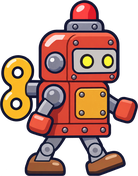
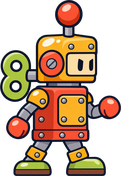
熱量とスコアの仕組み、処理落ち・経験値・ボムの修正、敵9種の画像
熱量とスコア
- 熱量(×1.0〜×6.0): 素早く倒すと上がり、被弾・囲まれる・時間で下がる
- 熱量に応じて敵の出現が速く、新しい敵が硬くなる。スコアの倍率にもなる
- スコア: 撃破(強さ×熱量)、ボス撃破、クリア・残りHPのボーナス。終了画面に表示

修正
- 処理落ち: 敵120体・破片300個・倒れる動き60体の上限、同じ効果音の間引き、敵画像を表示サイズで用意
- 経験値: 熱量で増えた分の敵からは経験値を出さない
- ビルド完成後のレベルアップは選択画面なしで自動ボーナス(スコア+回復)、ボム補充カードを廃止
- ボム: 倒した敵で熱量が上がらない、使うと熱量が下がる(経験値はこれまでどおり)

敵の画像
- 9種類すべてを画像に(ゼンマイ歩行ロボは新しい絵に差し替え)
- 小型飛行船は下の砲口から撃つ
- 設定は config.js の HEAT / SCORE / PERF / LEVEL_BONUS / ENEMY_ART

Claude-Session: https://claude.ai/code/session_01UuNR3d7QmSkxw8QbAA137X

diff --git a/game.js b/game.js
@@ -57,7 +57,7 @@ const TART = { ground: loadImg(TURRET_ART.ground.src, TURRET_ART.ground.width), 
 
 // 敵の画像: 段階ごとに色を重ねた版と、その白フチ・影・白い点滅用を読み込み時に作っておく
 function tinted(im, color, amount) {
-  const c = document.createElement("canvas"); c.width = im.naturalWidth; c.height = im.naturalHeight;
+  const c = document.createElement("canvas"); c.width = im.naturalWidth || im.width; c.height = im.naturalHeight || im.height;
   const g = c.getContext("2d"); g.drawImage(im, 0, 0);
   g.globalCompositeOperation = "source-atop"; g.globalAlpha = amount; g.fillStyle = color; g.fillRect(0, 0, c.width, c.height);
   return c;
@@ -66,9 +66,13 @@ function loadEnemyImg(a) {
   const im = new Image();
   im.onload = () => {
     im.dispW = a.height * im.naturalWidth / im.naturalHeight;   // 画面上の幅
-    const b = Math.ceil(PAPER.border * im.naturalHeight / a.height);
+    // 毎回大きな画像を縮めて描くと重いので、表示サイズ(×spriteQuality)に縮めた画像を作っておく
+    const q = PERF.spriteQuality, small = document.createElement("canvas");
+    small.width = Math.round(im.dispW * q * 1.3); small.height = Math.round(a.height * q * 1.3);   // 上位種は最大1.3倍に大きくなる
+    const sg = small.getContext("2d"); sg.imageSmoothingQuality = "high"; sg.drawImage(im, 0, 0, small.width, small.height);
+    const b = Math.ceil(PAPER.border * small.height / a.height);
     im.tiers = TIERS.map((T, i) => {
-      const base = i ? tinted(im, T.tint, ENEMY_TINT) : im;
+      const base = i ? tinted(small, T.tint, ENEMY_TINT) : small;
       const paper = bakeBorder(base, b, PAPER.borderColor);
       return { plain: base, paper, shadow: silhouette(paper, "#000"), white: silhouette(base, "#fff"), paperWhite: silhouette(paper, "#fff") };
     });
@@ -178,16 +182,19 @@ const sound = {
     o.connect(g).connect(this.ac.destination); o.start(t); o.stop(t + dur);
   },
 };
+// 同じ効果音を短い間隔で何度も鳴らすと重くなるので、間を空ける
+const lastSound = {};
+function throttled(name, f) { return () => { const now = performance.now(); if (now - (lastSound[name] || 0) < PERF.soundGapMs) return; lastSound[name] = now; f(); }; }
 const sfx = {
   shot: () => sound.play(880, 0.05, "square", 0.012, -400),
-  hit: () => sound.play(220, 0.06, "triangle", 0.03, -100),
-  kill: () => sound.play(160, 0.15, "sawtooth", 0.035, -120),
+  hit: throttled("hit", () => sound.play(220, 0.06, "triangle", 0.03, -100)),
+  kill: throttled("kill", () => sound.play(160, 0.15, "sawtooth", 0.035, -120)),
   hurt: () => sound.play(90, 0.3, "sawtooth", 0.08, -50),
-  gem: () => sound.play(1200, 0.06, "sine", 0.025, 300),
+  gem: throttled("gem", () => sound.play(1200, 0.06, "sine", 0.025, 300)),
   lvl: () => { sound.play(523, 0.12, "square", 0.05); setTimeout(() => sound.play(784, 0.18, "square", 0.05), 110); },
   item: () => sound.play(660, 0.25, "sine", 0.06, 600),
   bomb: () => sound.play(60, 0.6, "sawtooth", 0.12, -20),
-  boom: () => sound.play(100, 0.2, "sawtooth", 0.04, -60),
+  boom: throttled("boom", () => sound.play(100, 0.2, "sawtooth", 0.04, -60)),
   zap: () => sound.play(1500, 0.08, "square", 0.025, -1200),
   nova: () => sound.play(200, 0.35, "sine", 0.07, -150),
 };
@@ -208,6 +215,7 @@ function startGame(withTutorial) {
     cards: {}, wcool: {}, evolved: {}, bombs: BOMB.start,
     fireCool: 0, shield: 0, invuln: 0, hurtFlash: 0, aimAngle: -Math.PI / 2,
     tierShown: 0, bossDone: {}, finalSpawned: false, finalKilled: false, banner: null,
+    score: 0, heat: HEAT.min, maxHeat: HEAT.min, clearBonus: null,
   };
   recalc();
   S.hp = S.maxHp;
@@ -257,10 +265,10 @@ function spawnEnemy(type, forceSide, forceTier) {
   const d = ENEMY[type];
   const tier = forceTier != null ? forceTier : rollTier();
   const T = TIERS[tier];
-  const hp = d.hp * T.hp;
+  const hp = d.hp * T.hp * (S && !tut ? 1 + (S.heat - HEAT.min) * HEAT.hpBoost : 1);   // 熱量が高いと少し硬くなる
   const e = { type, d, tier, T, hp, maxHp: hp, r: d.r * (1 + tier * 0.1), speed: d.speed * (0.9 + Math.random() * 0.2),
               color: tier ? mixColor(d.color, T.tint, 0.55) : d.color,
-              flash: 0, t: Math.random() * 10, cool: 2 + Math.random(), spdMul: 1 };
+              flash: 0, t: Math.random() * 10, age: 0, cool: 2 + Math.random(), spdMul: 1 };
   const side = forceSide || (Math.random() < 0.5 ? "L" : "R");
   if (d.kind === "ground") {
     e.x = side === "L" ? -e.r : W + e.r; e.y = GY - e.r;
@@ -309,6 +317,7 @@ function fireBullet(x, y, ang, o) {
 }
 
 function burst(x, y, color, n = 10, sp = 160) {
+  n = Math.min(n, PERF.maxParticles - particles.length);   // 上限を超えない
   for (let i = 0; i < n; i++) {
     const a = Math.random() * Math.PI * 2, v = sp * (0.3 + Math.random());
     particles.push({ x, y, vx: Math.cos(a) * v, vy: Math.sin(a) * v, life: 0.5 + Math.random() * 0.3, color });
@@ -340,7 +349,13 @@ function update(dt) {
   if (S.banner) { S.banner.life -= dt; if (S.banner.life <= 0) S.banner = null; }
 
   // --- クリア判定 ---
-  if (S.time >= FINAL.clearAt) { state = "clear"; sfx.lvl(); return; }
+  if (S.time >= FINAL.clearAt) {
+    const hpB = Math.ceil(Math.max(0, S.hp)) * SCORE.hpBonus;
+    S.clearBonus = { clear: SCORE.clearBonus, hp: hpB };
+    S.score += SCORE.clearBonus + hpB;
+    state = "clear"; sfx.lvl(); return;
+  }
+  if (!tut) updateHeat(dt);
   if (tut) updateTutorial(dt);
 
   // --- 段階の切り替わり(告知 + 巨兵) ---
@@ -358,10 +373,10 @@ function update(dt) {
   // --- 敵の出現 ---
   if (!tut) spawnTimer -= dt;
   if (spawnTimer <= 0) {
-    const interval = Math.max(SPAWN.minInterval, SPAWN.startInterval - S.time * SPAWN.rampPerSec);
+    const interval = Math.max(SPAWN.minInterval, SPAWN.startInterval - S.time * SPAWN.rampPerSec) / heatSpawnMul();
     spawnTimer = interval * (0.7 + Math.random() * 0.6);
     const n = 1 + Math.floor(S.time / SPAWN.batchEvery);
-    for (let i = 0; i < n; i++) spawnEnemy(pickEnemyType());
+    for (let i = 0; i < n && enemies.length < PERF.maxEnemies; i++) spawnEnemy(pickEnemyType());
   }
 
   // --- エイム ---
@@ -613,7 +628,7 @@ function updateEnemies(dt) {
   const slowR = slowL ? WEAPON.slow.radius(slowL) : 0, slowF = slowL ? WEAPON.slow.factor(slowL) : 0;
   for (const e of enemies) {
     if (e.hp <= 0) continue;
-    e.t += dt; e.flash = Math.max(0, e.flash - dt);
+    e.t += dt; e.age += dt; e.flash = Math.max(0, e.flash - dt);
     e.spdMul = slowL && dist(e, P) < slowR + e.r ? 1 - slowF : 1;
     const sp = e.speed * e.spdMul;
     const k = e.d.kind;
@@ -636,13 +651,24 @@ function updateEnemies(dt) {
       e.cool -= dt;
       if (e.cool <= 0 && e.y >= e.hoverY - 1) {
         e.cool = 3.2;
-        const a = Math.atan2(P.y - e.y, P.x - e.x);
-        ebullets.push({ x: e.x, y: e.y, vx: Math.cos(a) * 130, vy: Math.sin(a) * 130, r: 7, life: 8, dmg: Math.round(10 * e.T.dmg) });
+        const my = e.y + (e.art ? e.artH * 0.42 : 0);   // 絵のある砲撃手は下の砲口から撃つ
+        const a = Math.atan2(P.y - my, P.x - e.x);
+        ebullets.push({ x: e.x, y: my, vx: Math.cos(a) * 130, vy: Math.sin(a) * 130, r: 7, life: 8, dmg: Math.round(10 * e.T.dmg) });
       }
     }
   }
   enemies = enemies.filter(e => e.hp > 0);
 }
+
+// 熱量: 時間で少しずつ下がり、囲まれているとさらに下がる
+function updateHeat(dt) {
+  let near = 0;
+  for (const e of enemies) if (e.hp > 0 && dist(e, P) < HEAT.crowdRadius) near++;
+  let drop = HEAT.decayPerSec;
+  if (near >= HEAT.crowdCount) drop += HEAT.crowdDropPerSec;
+  S.heat = Math.max(HEAT.min, S.heat - drop * dt);
+}
+function heatSpawnMul() { return 1 + (S.heat - HEAT.min) * HEAT.spawnBoost; }
 
 function damageEnemy(e, dmg) {
   if (e.hp <= 0) return;
@@ -653,13 +679,22 @@ function damageEnemy(e, dmg) {
 
 function killEnemy(e) {
   S.kills++;
+  if (!tut) {   // スコア(熱量が倍率)と熱量の上昇
+    let pts = e.d.xp * e.T.xp * SCORE.perXp;
+    if (e.type === "boss") pts += SCORE.bossBonus; else if (e.type === "titan") pts += SCORE.titanBonus;
+    pts = Math.round(pts * S.heat / 10) * 10;
+    S.score += pts;
+    if (e.d.boss) floatText(e.x, e.y - e.r - 20, `+${pts.toLocaleString()}`, "#f0e442");
+    if (!bombing) S.heat = Math.min(HEAT.max, S.heat + HEAT.gainPerKill * (e.age <= HEAT.fastKillTime ? HEAT.fastBonus : 1));   // ボムで倒した分は上げない
+    S.maxHeat = Math.max(S.maxHeat, S.heat);
+  }
   if (e.type === "titan") { S.finalKilled = true; banner("大巨兵 撃破!", "#ffd54f"); }
   sfx.kill();
   burst(e.x, e.y, e.color, e.d.boss ? 40 : 12);
-  if (PAPER.enabled) { e.flash = 0; corpses.push({ e, t: 0, dir: e.x < P.x ? -1 : 1 }); }   // 紙風: 倒れる動き
+  if (PAPER.enabled && corpses.length < PERF.maxCorpses) { e.flash = 0; corpses.push({ e, t: 0, dir: e.x < P.x ? -1 : 1 }); }   // 紙風: 倒れる動き
   const n = e.d.boss ? 10 : 1;
   for (let i = 0; i < n; i++)
-    gems.push({ x: e.x, y: e.y, vx: (Math.random() - 0.5) * 160, vy: -120 - Math.random() * 120, t: 0, v: e.d.xp * e.T.xp / n });
+    gems.push({ x: e.x, y: e.y, vx: (Math.random() - 0.5) * 160, vy: -120 - Math.random() * 120, t: 0, v: e.d.xp * e.T.xp / n / (tut ? 1 : heatSpawnMul()) });   // 熱量で増えた敵の分は経験値にしない
   // アイテムドロップ
   if (Math.random() < (e.d.boss ? 1 : 0.05)) {
     const keys = Object.keys(ITEMS);
@@ -691,6 +726,7 @@ function hurtPlayer(raw) {
   floatText(P.x, P.y - 40, "-" + dmg, "#ff8a80");
   // 無敵時間を付け、周りの敵を押し返す(ダメージなし)
   S.invuln = HURT.invuln;
+  if (!tut) S.heat = Math.max(HEAT.min, S.heat - HEAT.hurtDrop);   // 被弾で熱量が下がる
   for (const e of enemies) if (e.hp > 0 && dist(e, P) < HURT.pushRadius + e.r) knockback(e, P.x, P.y, HURT.push);
   fx.push({ type: "ring", r: HURT.pushRadius, life: 0.3, max: 0.3, color: "255,138,128" });
   return "hit";
@@ -711,9 +747,13 @@ function useBomb() {
   sfx.bomb(); shake = 14;
   fx.push({ type: "flash", life: 0.25, max: 0.25 });
   const dmg = BOMB.dmgPerTierHp * TIERS[currentTier()].hp;
+  bombing = true;
   for (const e of enemies) damageEnemy(e, dmg);
+  bombing = false;
+  if (!tut) S.heat = Math.max(HEAT.min, S.heat - HEAT.bombDrop);
   ebullets = [];
 }
+let bombing = false;   // ボムで倒している最中か
 
 function collectItem(it) {
   it.dead = true; sfx.item();
@@ -762,7 +802,14 @@ function openLevelUp() {
   const pick = EVOLUTIONS.filter(v => !S.evolved[v.from] && lv(v.from) >= CARD_RULES.maxLevel && lv(v.with) >= CARD_RULES.maxLevel)
     .slice(0, 3).map(v => ({ id: "evo_" + v.id, type: "evolve", name: v.name, evo: v, desc: () => v.desc }));
   while (pick.length < 3 && avail.length) pick.push(rand(avail));
-  const fillers = [CARD.heal, CARD.bombup];
+  // ビルドが完成して取れるカードが無いときは、選択画面を出さずにボーナスを受け取る
+  if (!pick.length && !tut) {
+    const pts = Math.round(LEVEL_BONUS.score * S.heat / 10) * 10;
+    S.score += pts; S.hp = Math.min(S.maxHp, S.hp + LEVEL_BONUS.heal);
+    floatText(P.x, P.y - 60, `LEVEL UP  +${pts.toLocaleString()}`, "#69f0ae"); sfx.gem();
+    return;
+  }
+  const fillers = [CARD.heal];   // 足りない枠は回復だけで埋める(ボム補充は出さない)
   while (pick.length < 3 && fillers.length) pick.push(rand(fillers));
   // HPが減っていたら回復を候補に混ぜる
   if (S.hp < S.maxHp * 0.5 && !pick.includes(CARD.heal)) {
@@ -884,8 +931,8 @@ function draw() {
   if (state !== "title") drawHUD();
   if (state === "levelup") drawLevelUp();
   if (state === "pause") drawCenter("PAUSE", "P / Esc で再開");
-  if (state === "over") drawCenter("GAME OVER", `生存 ${fmtTime(S.time)} ・ Lv ${S.level} ・ 撃破 ${S.kills}\n${buildText()}\nクリック / Enter: リトライ    Esc: タイトルへ(次の人へ交代)${idleNote()}`);
-  if (state === "clear") drawCenter("CLEAR!", `${clearMinutes()}分間 生き残った! ・ Lv ${S.level} ・ 撃破 ${S.kills}\n大巨兵: ${S.finalKilled ? "撃破" : "撃破ならず"}\n${buildText()}\nクリック / Enter: もう一度    Esc: タイトルへ(次の人へ交代)${idleNote()}`);
+  if (state === "over") drawCenter("GAME OVER", `スコア ${S.score.toLocaleString()}   最高熱量 ×${S.maxHeat.toFixed(1)}\n生存 ${fmtTime(S.time)} ・ Lv ${S.level} ・ 撃破 ${S.kills}\n${buildText()}\nクリック / Enter: リトライ    Esc: タイトルへ(次の人へ交代)${idleNote()}`);
+  if (state === "clear") drawCenter("CLEAR!", `スコア ${S.score.toLocaleString()}   最高熱量 ×${S.maxHeat.toFixed(1)}\n(クリアボーナス +${(S.clearBonus?.clear ?? 0).toLocaleString()} ・ 残りHP +${(S.clearBonus?.hp ?? 0).toLocaleString()})\n${clearMinutes()}分間 生き残った! ・ Lv ${S.level} ・ 撃破 ${S.kills}\n大巨兵: ${S.finalKilled ? "撃破" : "撃破ならず"}\n${buildText()}\nクリック / Enter: もう一度    Esc: タイトルへ(次の人へ交代)${idleNote()}`);
   drawCrosshair();
 }
 
@@ -1236,6 +1283,7 @@ function drawHUD() {
   if (S.shield > 0) { ctx.fillStyle = "#4dd0e1"; ctx.fillText(`シールド ${S.shield.toFixed(1)}s`, W - 16, 70); }
   ctx.textAlign = "left"; ctx.fillStyle = "#78909c"; ctx.font = "12px sans-serif";
   ctx.fillText(`[T] エイム: ${autoAim ? "オート" : "マウス"}   [P] ポーズ   [M] 音 ${sound.muted ? "OFF" : "ON"}   [G] 紙風 ${PAPER.enabled ? "ON" : "OFF"}   [D] 数値表示`, 16, H - 16);
+  if (!tut) drawScoreHeat();
   if (tut) drawTutorial();
   drawBanner();
   if (debug) drawDebug();
@@ -1349,6 +1397,20 @@ function drawCenter(title, sub) {
   for (const l of sub.split("\n")) y = wrapText(l, W / 2, y, W - 120, 26) + 4;
 }
 
+// 画面上部の中央: スコアと熱量
+function drawScoreHeat() {
+  const cx = W / 2, k = (S.heat - HEAT.min) / (HEAT.max - HEAT.min);
+  ctx.textAlign = "center"; ctx.font = "bold 22px sans-serif"; ctx.fillStyle = "#ffffff";
+  ctx.fillText(S.score.toLocaleString(), cx, 30);
+  const bw = 180, bx = cx - bw / 2, by = 40;
+  ctx.fillStyle = "#000a"; ctx.fillRect(bx, by, bw, 8);
+  ctx.fillStyle = k < 0.33 ? "#f0e442" : k < 0.66 ? "#e69f00" : "#d55e00"; ctx.fillRect(bx, by, bw * k, 8);
+  ctx.strokeStyle = "#ffffff55"; ctx.lineWidth = 1; ctx.strokeRect(bx, by, bw, 8);
+  ctx.font = "bold 12px sans-serif"; ctx.fillStyle = "#e0e0e0"; ctx.textAlign = "left";
+  ctx.fillText(`熱量 ×${S.heat.toFixed(1)}`, bx + bw + 8, by + 8);
+  ctx.textAlign = "left";
+}
+
 function drawBanner() {
   const b = S.banner; if (!b) return;
   ctx.globalAlpha = Math.min(1, b.life);
@@ -1359,13 +1421,14 @@ function drawBanner() {
 
 function drawDebug() {   // [D]キーで表示。数値調整の目安
   const fi = S.fireInt;
-  const interval = Math.max(SPAWN.minInterval, SPAWN.startInterval - S.time * SPAWN.rampPerSec);
+  const interval = Math.max(SPAWN.minInterval, SPAWN.startInterval - S.time * SPAWN.rampPerSec) / heatSpawnMul();
   const shares = TIERS.map((T, i) => { let p = tierShare(i); for (let j = i + 1; j < TIERS.length; j++) p *= 1 - tierShare(j); return p; });
   const lines = [
     `主砲の秒間ダメージ目安: ${(S.dmgMul * S.caliberMul * S.multi / fi).toFixed(1)}(全弾命中時)`,
     `1発: ${(S.dmgMul * S.caliberMul).toFixed(2)} / 弾数 ${S.multi} / 貫通 ${S.pierce} / 跳弾 ${S.bounce}`,
     `出現間隔: ${interval.toFixed(2)}秒 × ${1 + Math.floor(S.time / SPAWN.batchEvery)}体 / 画面上の敵 ${enemies.length}体`,
     `次のレベルまで: ${Math.ceil(S.xpNext - S.xp)} / ${S.xpNext}(経験値×${S.xpMul.toFixed(2)})`,
+    `熱量 ×${S.heat.toFixed(2)} → 出現の速さ ×${heatSpawnMul().toFixed(2)}`,
     ...TIERS.map((T, i) => `${T.name}(HP×${T.hp}): ${Math.round(shares[i] * 100)}%`),
   ];
   ctx.fillStyle = "rgba(0,0,0,0.65)"; ctx.fillRect(W - 330, 80, 320, 14 + lines.length * 17);

diff --git a/config.js b/config.js
@@ -130,7 +130,7 @@ const CARDS = [
   { id: "learn",   type: "passive", name: "学習回路", desc: () => `獲得経験値 +${PASSIVE.learn * 100}%` },
   // ---- 補充(上限なし。候補が足りないときやHPが減ったときに出る) ----
   { id: "heal",    type: "filler", name: "緊急修理", desc: () => "HPを30%回復" },
-  { id: "bombup",  type: "filler", name: "ボム補充", desc: () => "ボムのストック +1" },
+  { id: "bombup",  type: "filler", name: "ボム補充", desc: () => "ボムのストック +1" },   // 今は候補に出さない(ボムは最初の1個とドロップだけ)
 ];
 
 // ============================================================
@@ -196,7 +196,15 @@ const TURRET_ART = {
 // 画像を登録した敵だけが絵になる。登録していない敵はこれまでの図形のまま
 // height: 画面上の高さ(幅は画像の縦横比から自動) / hitR: 当たり判定の半径
 const ENEMY_ART = {
-  grunt: { src: "assets/enemy_grunt.png", height: 44, hitR: 16 },   // ゼンマイ歩行ロボ
+  grunt:   { src: "assets/enemy_grunt.png",   height: 44,  hitR: 16 },   // 歩兵: ゼンマイ歩行ロボ
+  runner:  { src: "assets/enemy_runner.png",  height: 40,  hitR: 14 },   // 突撃兵: 一輪車ロボ
+  brute:   { src: "assets/enemy_brute.png",   height: 60,  hitR: 26 },   // 重装兵: 重装ブリキロボ
+  bat:     { src: "assets/enemy_bat.png",     height: 32,  hitR: 15 },   // 左右から飛ぶ: プロペラドローン
+  diver:   { src: "assets/enemy_diver.png",   height: 42,  hitR: 15 },   // 上から降る: パラシュートロボ
+  spitter: { src: "assets/enemy_spitter.png", height: 52,  hitR: 18 },   // 浮いて撃つ: 小型飛行船
+  boss:    { src: "assets/enemy_boss.png",    height: 110, hitR: 45 },   // 巨兵: 巨大ブリキロボ
+  titan:   { src: "assets/enemy_titan.png",   height: 150, hitR: 65 },   // 大巨兵: 要塞ロボ
+  dummy:   { src: "assets/enemy_dummy.png",   height: 40,  hitR: 18 },   // チュートリアルの的: 射的の的
 };
 const ENEMY_TINT = 0.45;   // 上位種の色を絵に重ねる濃さ(0〜1)
 
@@ -211,4 +219,47 @@ const BG_ART = {
             floorShade: 0.45,  // 地面近く(敵が歩く高さ)を暗くする強さ(0〜1)
             centerShade: 0.35, // 中央(自機のまわり)を暗くする強さ(0〜1)
   },
+};
+
+// ---- 熱量(うまく戦うほど敵が増え、スコアの倍率も上がる) ----
+// 今の難しさが下限(×1.0)。敵を素早く倒すと上がり、被弾したり囲まれたりすると下がる
+const HEAT = {
+  min: 1.0, max: 6.0,       // 熱量の範囲
+  gainPerKill: 0.005,       // 敵を1体倒すごとに上がる量
+  fastKillTime: 5,          // 出現からこの秒数以内に倒すと「素早い撃破」
+  fastBonus: 2.5,           // 素早い撃破では上がる量がこの倍
+  decayPerSec: 0.015,       // 何もしなくても少しずつ下がる量(1秒あたり)
+  hurtDrop: 0.3,            // 被弾したときに下がる量
+  crowdRadius: 170,         // 自機からこの距離以内に…
+  crowdCount: 8,            // …この数以上の敵がいると「囲まれている」
+  crowdDropPerSec: 0.1,     // 囲まれているあいだ下がる量(1秒あたり)
+  spawnBoost: 0.8,          // 熱量が1上がるごとに、敵の出現がこれだけ速くなる(×6.0で出現の速さ5倍)
+  hpBoost: 1.0,             // 熱量が1上がるごとに、新しく出る敵のHPがこれだけ増える(×6.0でHP6倍)
+  bombDrop: 1.0,            // ボムを使うと下がる量(ボムで倒した敵では熱量は上がらない)
+};
+
+// ---- スコア ----
+// 敵を倒した点数 = 敵の経験値 × 段階の経験値倍率 × perXp × その時の熱量
+const SCORE = {
+  perXp: 100,               // 経験値1あたりの点数
+  bossBonus: 2000,          // 巨兵を倒したときの追加点(×熱量)
+  titanBonus: 10000,        // 大巨兵を倒したときの追加点(×熱量)
+  clearBonus: 5000,         // クリアしたときの追加点
+  hpBonus: 50,              // クリア時に残ったHP 1あたりの追加点
+};
+
+// ---- 処理の重さ対策 ----
+const PERF = {
+  maxEnemies: 120,       // 画面に同時に出る敵の上限(これを超える分は出現しない)
+  maxParticles: 300,     // 破片の上限
+  maxCorpses: 60,        // 倒れる動きを同時に見せる上限(超えた分はすぐ消える)
+  spriteQuality: 1.5,    // 敵の画像を、表示サイズの何倍の細かさで用意しておくか(大きいほどきれいで重い)
+  soundGapMs: 45,        // 同じ効果音を続けて鳴らすときの最短の間隔(ミリ秒)
+};
+
+// ---- ビルドが完成した後のレベルアップ ----
+// 取れるカードが無くなったら、選択画面を出さずに自動で受け取る
+const LEVEL_BONUS = {
+  score: 1500,           // スコア(× その時の熱量)
+  heal: 10,              // HP回復
 };
